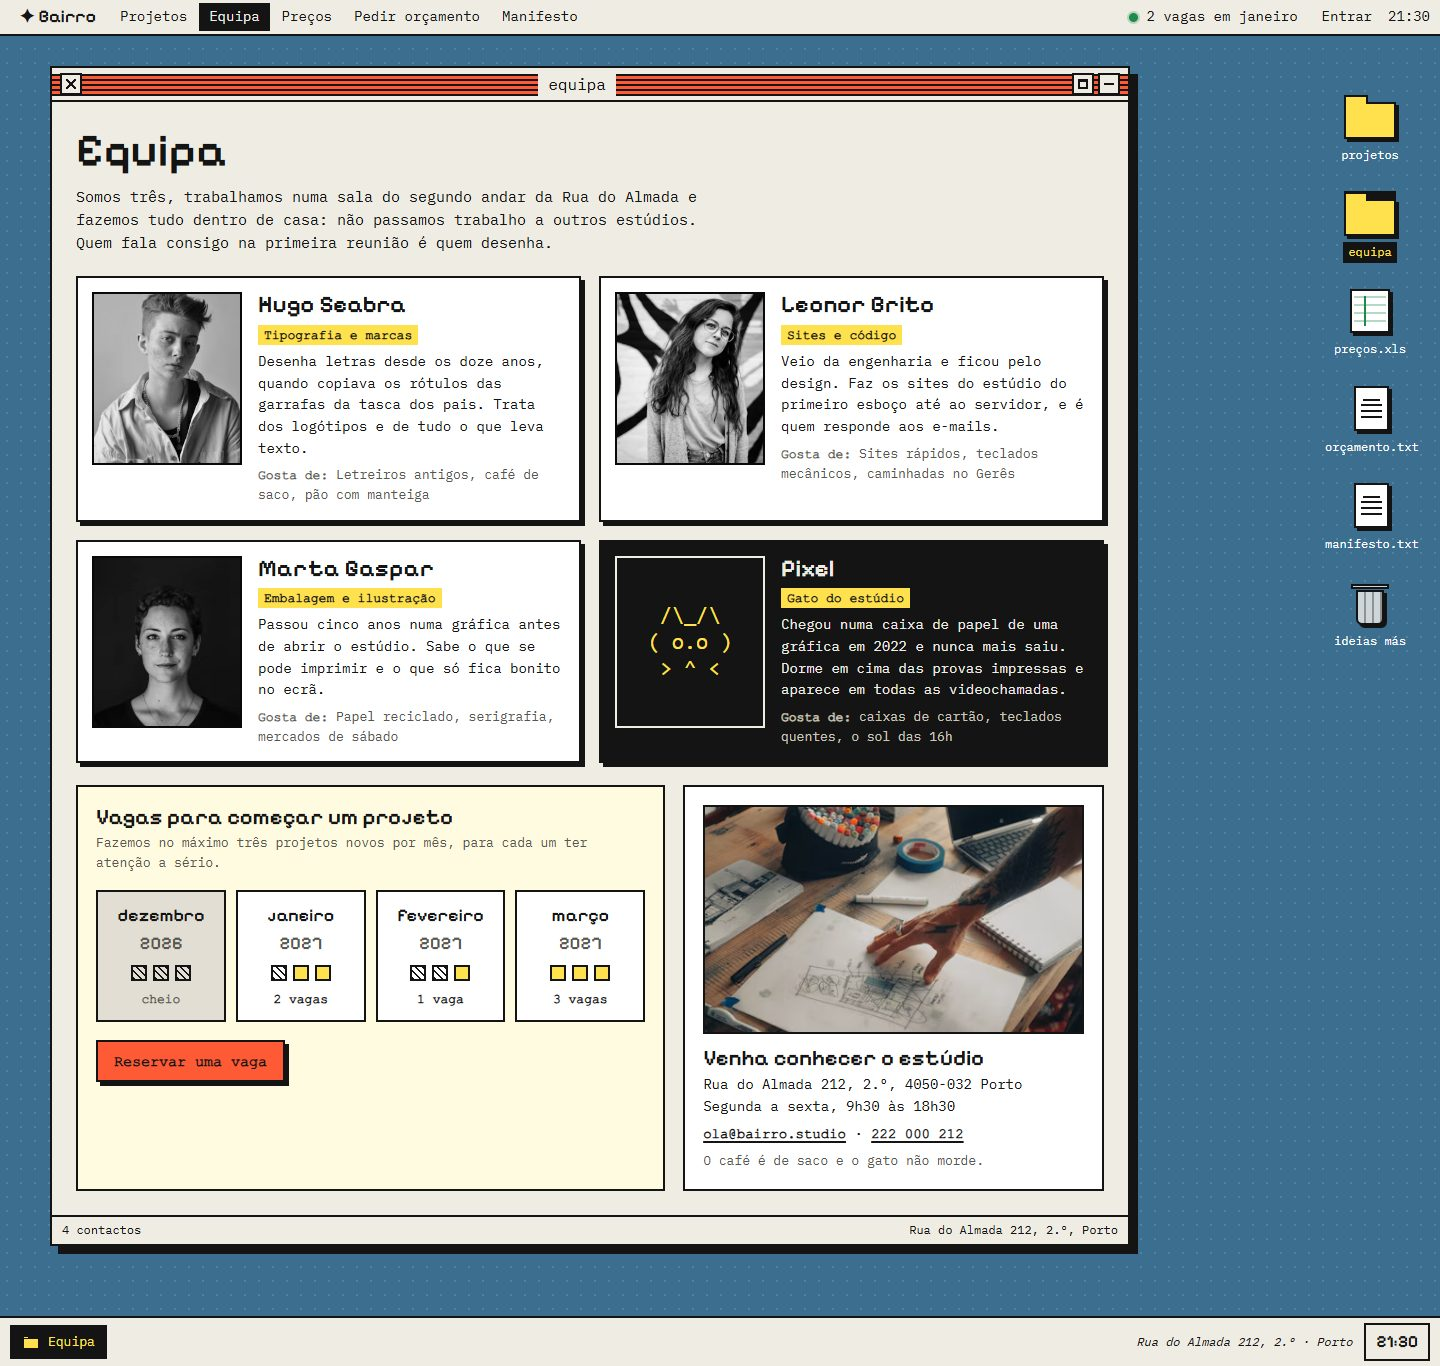
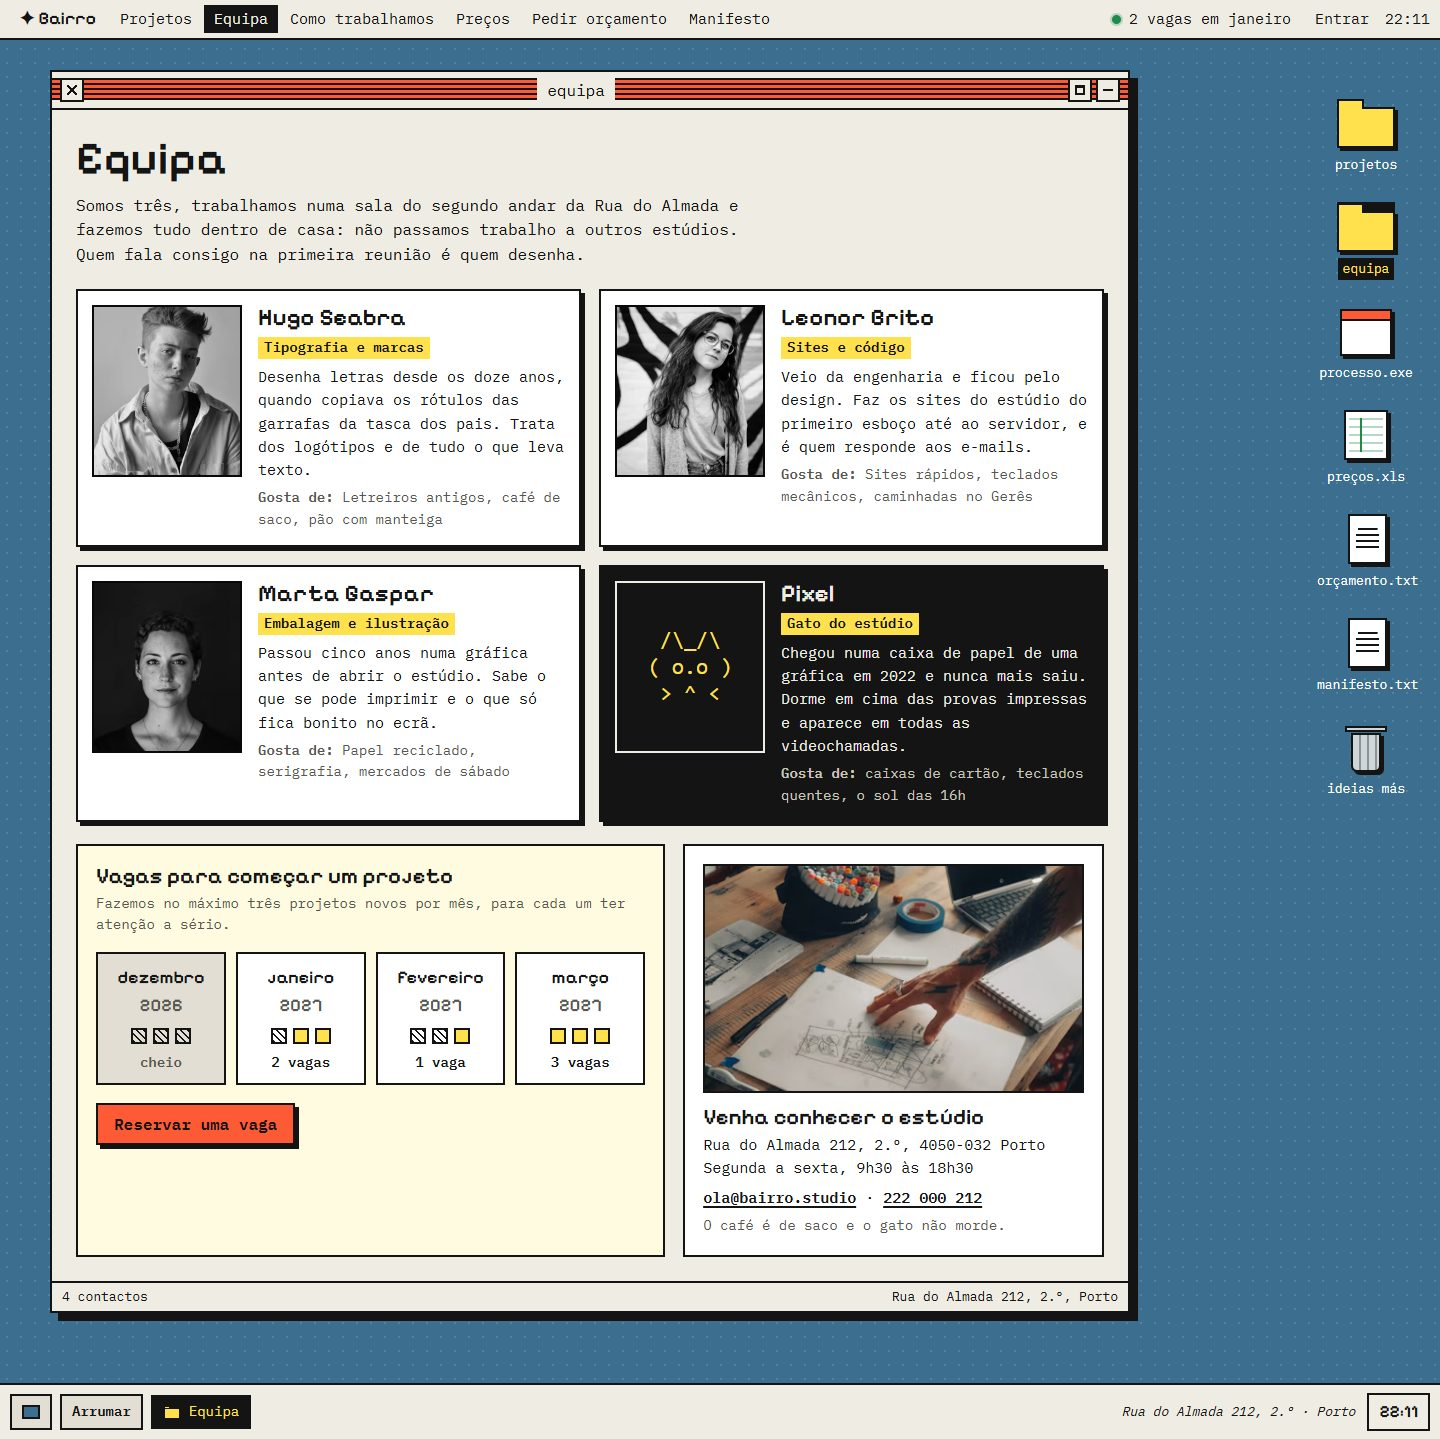
bairro: capturas e readme atualizados

diff --git a/bairro/README.md b/bairro/README.md
@@ -25,7 +25,7 @@
 
 O Bairro é um **estúdio de design com três pessoas e um gato**, num segundo andar da Rua do Almada, no Porto. Faz marcas, sites, embalagens e cartazes para negócios pequenos.
 
-Em vez de um site com menu em cima, fotografia grande e cartões, o site é um **ambiente de trabalho**. Há ícones de pastas e ficheiros, uma barra de menus com relógio e uma barra de tarefas. Cada página abre como uma janela: o portefólio é um **explorador de ficheiros**, cada projeto abre num **visualizador de imagens**, os preços são uma **folha de cálculo** que faz a conta, o pedido de orçamento é um **bloco de notas**, o manifesto está num **editor de texto** e há um **caixote do lixo** com as ideias más do estúdio.
+Em vez de um site com menu em cima, fotografia grande e cartões, o site é um **ambiente de trabalho**. Há ícones de pastas e ficheiros, uma barra de menus com relógio e uma barra de tarefas. Cada página abre como uma janela: o portefólio é um **explorador de ficheiros**, cada projeto abre num **visualizador de imagens**, o processo de trabalho é um **assistente de instalação** (Seguinte ›), os preços são uma **folha de cálculo** que faz a conta, o pedido de orçamento é um **bloco de notas**, o manifesto está num **editor de texto** e há um **caixote do lixo** com as ideias más do estúdio.
 
 Os links não recarregam a página: a janela nova abre por cima das outras e fica na barra de tarefas, e o endereço muda para o da página. Cada janela continua a ser uma página normal, desenhada no servidor, com título, descrição e dados estruturados próprios.
 
@@ -42,10 +42,12 @@ Funciona **sem base de dados**: os dados vivem em memória e já trazem 8 projet
   <tr valign="top">
     <td>
       • Janelas que se arrastam, minimizam e maximizam<br>
+      • Botões para arrumar as janelas e mostrar o ambiente de trabalho<br>
       • Abrir páginas sem recarregar, com barra de tarefas<br>
       • Explorador de projetos com pastas, procura e vista em lista<br>
       • Visualizador com fotografias, propriedades e paleta<br>
       • Equipa e vagas para começar em cada mês<br>
+      • Como trabalhamos, num assistente de instalação<br>
       • Folha de preços que calcula a estimativa<br>
       • Pedido de orçamento no bloco de notas<br>
       • Manifesto, caixote do lixo e cor do fundo à escolha
@@ -74,9 +76,10 @@ Funciona **sem base de dados**: os dados vivem em memória e já trazem 8 projet
 
 - **Cada página é uma janela.** O servidor desenha a janela principal da página (e, na página inicial, mais três janelas e um post-it). Sem JavaScript o site funciona como qualquer outro: os links abrem páginas.
 - **Abrir sem recarregar.** Com JavaScript, um clique num link vai buscar a página ao servidor, tira de lá a janela principal e põe-na em cima das outras, em cascata. O endereço, o título e o botão de voltar atrás funcionam como numa página normal. Se a janela já está aberta, passa para a frente.
-- **Gestor de janelas** (`public/js/os/wm.js`): arrastar pela barra de título, duplo clique para maximizar, minimizar para a barra de tarefas, fechar, foco ao clicar. As posições ficam guardadas durante a sessão.
+- **Gestor de janelas** (`public/js/os/wm.js`): arrastar pela barra de título, duplo clique para maximizar, minimizar para a barra de tarefas, fechar, foco ao clicar. As posições ficam guardadas durante a sessão, e o botão **Arrumar** da barra de tarefas volta a pô-las em cascata.
+- **Cabe sempre no ecrã.** A posição e a largura de cada janela encolhem para caber na largura disponível, as janelas não se arrastam para fora do alcance e o ambiente de trabalho cresce à medida que o conteúdo das janelas carrega, para dar sempre para fazer scroll até ao fim.
 - **Cada janela traz o seu script**: o explorador procura e muda de vista, o visualizador troca de fotografia com as setas, a folha de cálculo faz a conta, o bloco de notas envia o pedido. Os scripts só carregam quando a janela abre.
-- **No telemóvel** as janelas empilham-se e não se arrastam, os ícones ficam numa fila no topo e a barra de tarefas continua em baixo.
+- **Em ecrãs com menos de 1024 px** (tablets e telemóveis) as janelas empilham-se e não se arrastam, os ícones ficam numa fila no topo e a barra de tarefas continua em baixo.
 - **Ícones desenhados em CSS** (pastas, ficheiros, folha de cálculo, lixo), sem imagens.
 - **Definições**: a cor e o padrão do fundo mudam e ficam guardados no browser.
 
@@ -89,21 +92,16 @@ Funciona **sem base de dados**: os dados vivem em memória e já trazem 8 projet
 | ![Projeto](docs/projeto.jpg) | ![Equipa](docs/equipa.jpg) |
 | **Folha de preços** | **Pedir orçamento** |
 | ![Preços](docs/precos.jpg) | ![Orçamento](docs/orcamento.jpg) |
-| **Manifesto** | **Ideias más** |
-| ![Manifesto](docs/manifesto.jpg) | ![Lixo](docs/lixo.jpg) |
-| **Entrar** | **Ficheiro não encontrado** |
-| ![Entrar](docs/entrar.jpg) | ![Erro](docs/erro.jpg) |
-| **O meu projeto** | **Provas** |
-| ![Conta](docs/conta.jpg) | ![Provas](docs/provas.jpg) |
-| **Mensagens** | **Gestor de tarefas** |
-| ![Mensagens](docs/mensagens.jpg) | ![Painel](docs/painel.jpg) |
-
-<details>
-<summary><strong>Trabalhos no gestor de tarefas</strong></summary>
-
-![Trabalhos](docs/painel-trabalhos.jpg)
-
-</details>
+| **Como trabalhamos** | **Manifesto** |
+| ![Como trabalhamos](docs/processo.jpg) | ![Manifesto](docs/manifesto.jpg) |
+| **Ideias más** | **Entrar** |
+| ![Lixo](docs/lixo.jpg) | ![Entrar](docs/entrar.jpg) |
+| **Ficheiro não encontrado** | **O meu projeto** |
+| ![Erro](docs/erro.jpg) | ![Conta](docs/conta.jpg) |
+| **Provas** | **Mensagens** |
+| ![Provas](docs/provas.jpg) | ![Mensagens](docs/mensagens.jpg) |
+| **Gestor de tarefas** | **Trabalhos em curso** |
+| ![Painel](docs/painel.jpg) | ![Trabalhos](docs/painel-trabalhos.jpg) |
 
 ### 📱 No telemóvel
 
@@ -138,6 +136,7 @@ Resultados do Lighthouse 12 (telemóvel com rede 4G lenta simulada / computador)
 | Um projeto | 99 / 100 | 100 | 100 | 100 |
 | Equipa | 100 / 100 | 100 | 100 | 100 |
 | Preços | 100 / 100 | 100 | 100 | 100 |
+| Como trabalhamos | 100 / 100 | 100 | 100 | 100 |
 | Pedir orçamento | 100 | 100 | 100 | 100 |
 | Manifesto | 100 | 100 | 100 | 100 |
 
@@ -145,7 +144,7 @@ Resultados do Lighthouse 12 (telemóvel com rede 4G lenta simulada / computador)
 
 - Todas as páginas públicas são desenhadas no servidor, com o `h1` no corpo da janela principal.
 - Título, descrição, `canonical`, Open Graph e Twitter Card em cada página; cada projeto usa a primeira fotografia como imagem de partilha. As pastas de cada categoria (`/projetos?categoria=embalagem`) têm título e descrição próprios.
-- Dados estruturados (JSON-LD): `ProfessionalService` com morada, horário e equipa, `CreativeWork` para cada projeto, `ItemList` do portefólio, `AboutPage` com as pessoas, `OfferCatalog` com os preços de cada serviço, `FAQPage` e `BreadcrumbList`.
+- Dados estruturados (JSON-LD): `ProfessionalService` com morada, horário e equipa, `CreativeWork` para cada projeto, `HowTo` com as fases de trabalho, `ItemList` do portefólio, `AboutPage` com as pessoas, `OfferCatalog` com os preços de cada serviço, `FAQPage` e `BreadcrumbList`.
 - `/sitemap.xml` gerado a partir dos projetos publicados e `/robots.txt` que deixa de fora a API, a área de cliente, o painel e as definições.
 - O endereço público vem de `SITE_URL` no `.env`.
 
